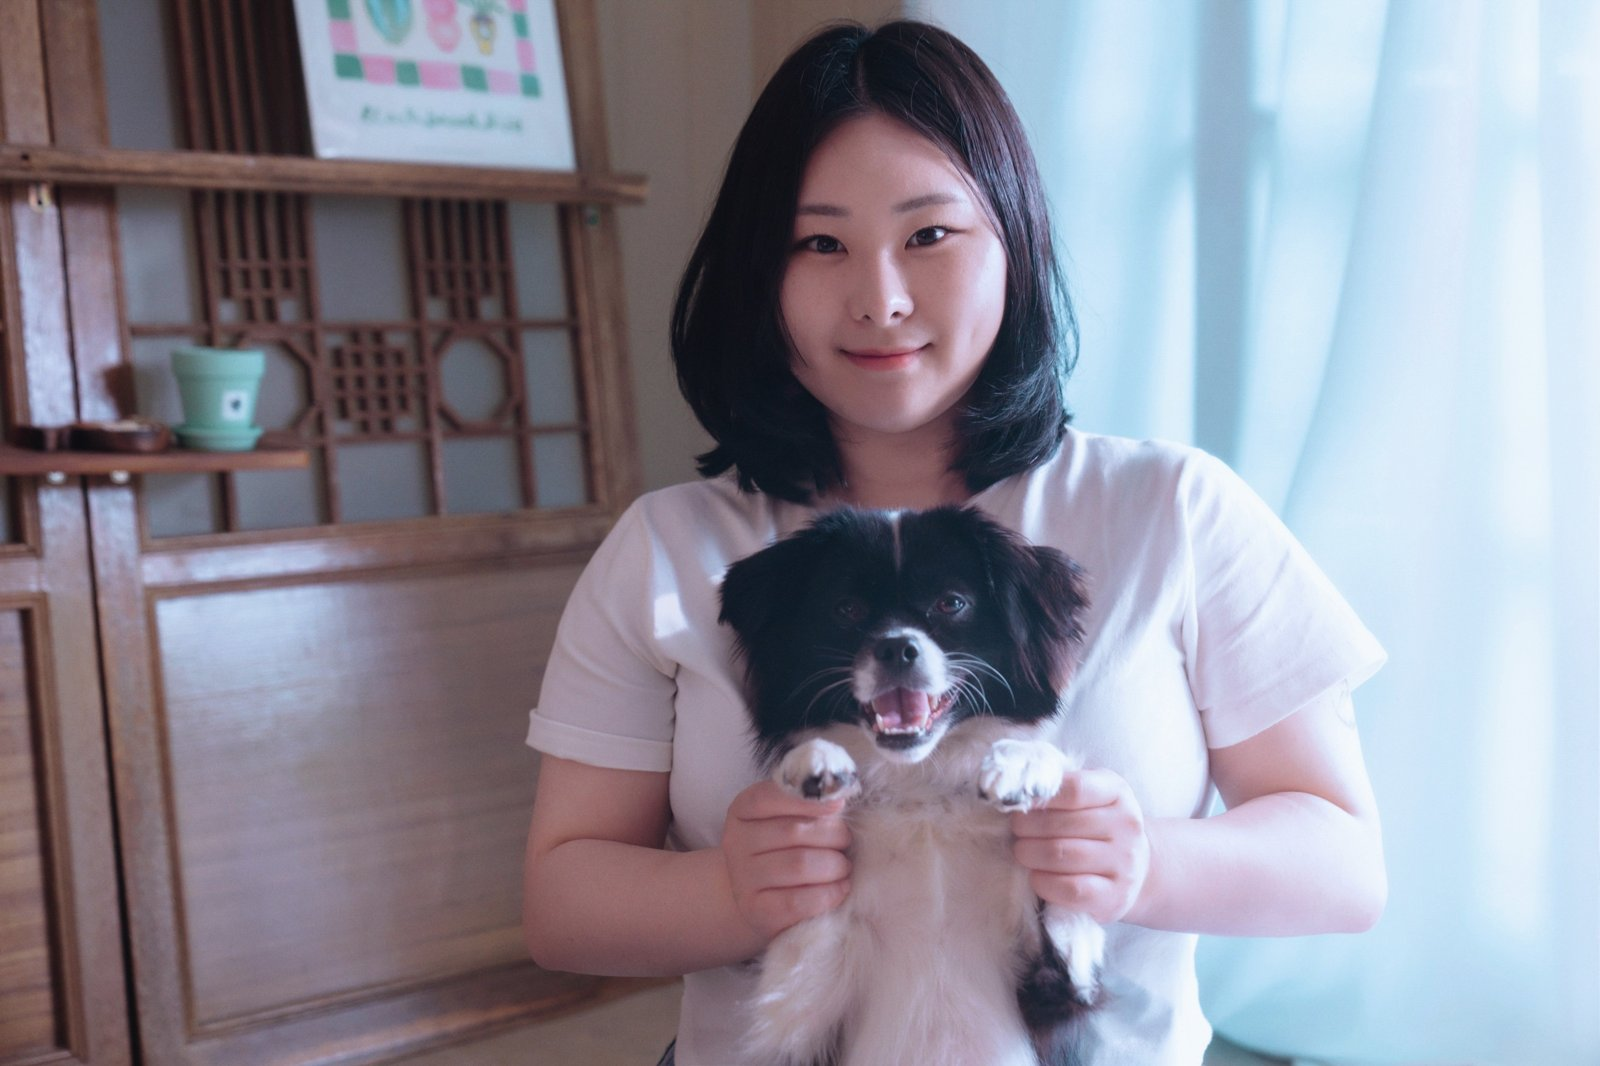
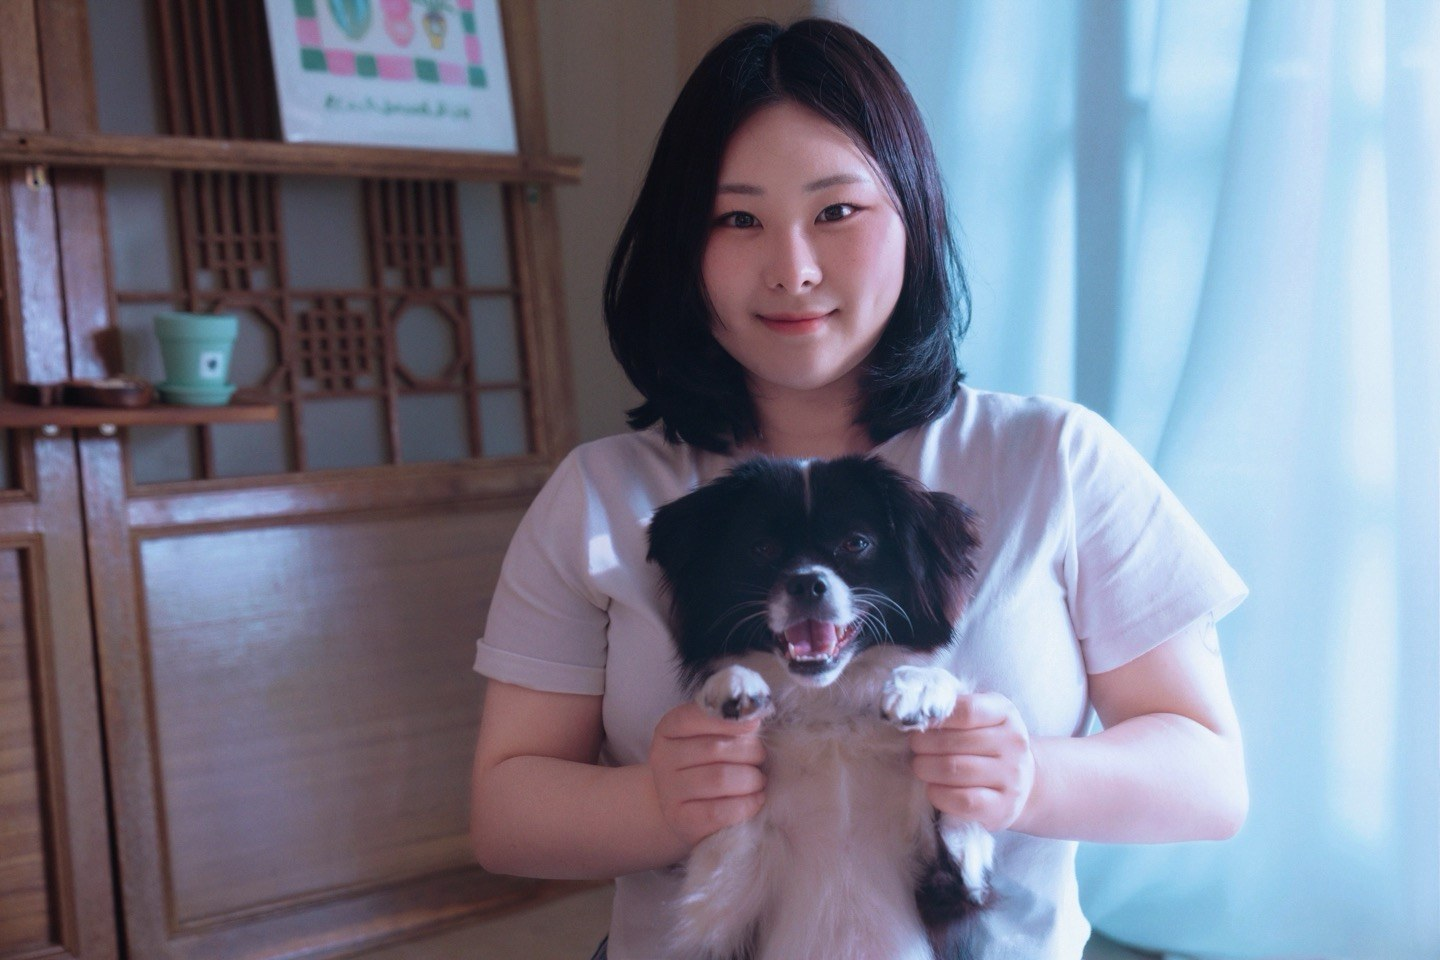
연락 사진 보정본으로 교체
Claude-Session: https://claude.ai/code/session_01F7tKYgLVpzjPdrtESAum4i

diff --git a/index.html b/index.html
@@ -86,7 +86,7 @@
   <div class="list"><a class="row" href="activities/cucg.html"><span class="y">2022 – 현재</span><span class="t">CUCG Lab 학부연구생</span><span class="r">AI 그래픽스 · XR · 시뮬레이션</span><img src="images/cucg.jpg" alt="CUCG Lab 학부연구생" loading="lazy"></a><a class="row" href="activities/siggraph-2024.html"><span class="y">2024</span><span class="t">SIGGRAPH Asia 2024 도쿄 · 학생 봉사자</span><span class="r">전시 · 등록 · 체험 부스</span><img src="images/siggraph-2024.jpg" alt="SIGGRAPH Asia 2024 도쿄 · 학생 봉사자" loading="lazy"></a><a class="row" href="activities/siggraph-2022.html"><span class="y">2022</span><span class="t">SIGGRAPH Asia 2022 대구 · 학생 봉사자</span><span class="r">학회 운영 · 참가자 지원</span><img src="images/siggraph-2022.jpg" alt="SIGGRAPH Asia 2022 대구 · 학생 봉사자" loading="lazy"></a><a class="row" href="projects/sangun.html"><span class="y">2024</span><span class="t">게임 개발 팀 LUL(Level Up Labs) 창립</span><span class="r">창립 · 팀 리드</span><img src="images/sangun.jpg" alt="게임 개발 팀 LUL(Level Up Labs) 창립" loading="lazy"></a><a class="row" href="activities/raons.html"><span class="y">2021 – 2023</span><span class="t">라온S 회장 · 학과 공식 소모임</span><span class="r">회장 · 지원사업 기획</span><img src="images/raons.jpg" alt="라온S 회장 · 학과 공식 소모임" loading="lazy"></a><a class="row" href="activities/aristotellers.html"><span class="y">2021</span><span class="t">아리랑스쿨 기자단 ‘아리스토텔러스’ 7기</span><span class="r">전통문화 기자단</span><div class="ph" role="img" aria-label="아리랑스쿨 기자단 ‘아리스토텔러스’ 7기"><span>아리랑스쿨 기자단 ‘아리스토텔러스’ 7기</span></div><!-- 사진: images/aristotellers.jpg --></a><a class="row" href="activities/annyeong-korea.html"><span class="y">2021</span><span class="t">안녕 코리아 · 한국문화 서포터즈</span><span class="r">외국인 대상 한국문화 수업</span><img src="images/annyeong-korea.jpg" alt="안녕 코리아 · 한국문화 서포터즈" loading="lazy"></a><a class="row" href="activities/statist.html"><span class="y">2021 – 2022</span><span class="t">스타티스트(STARTIST) · 창업대학 기관동아리</span><span class="r">창업 · 홍보 영상</span><img src="images/statist.jpg" alt="스타티스트(STARTIST) · 창업대학 기관동아리" loading="lazy"></a><a class="row" href="activities/nvidia-dli.html"><span class="y">2022</span><span class="t">NVIDIA 딥러닝 교육 이수</span><span class="r">교육</span><div class="ph" role="img" aria-label="NVIDIA 딥러닝 교육 이수"><span>NVIDIA 딥러닝 교육 이수</span></div><!-- 사진: images/nvidia-dli.jpg --></a><a class="row" href="activities/gdgoc.html"><span class="y">2025 – 2026</span><span class="t">GDGoC · 팀 리더 (반죽뭉치 · DevRel)</span><span class="r">팀 리더 2회</span><img src="images/gdgoc.jpg" alt="GDGoC · 팀 리더 (반죽뭉치 · DevRel)" loading="lazy"></a></div></section>
 <section class="sec" id="studies"><div class="sh"><span class="n">04</span><h2>배움</h2><p>공학 밖에서 배운 것들</p><a class="more" href="studies.html">전체 보기 →</a></div>
   <div class="studies"><a href="study/color.html"><span class="en">Color Science</span><h3>색채학</h3><p>색의 기본 성질부터 색 체계, 퍼스널 컬러, 트렌드 컬러 기획까지.</p></a><a href="study/fashion.html"><span class="en">Fashion Illustration</span><h3>패션 일러스트레이션</h3><p>인체의 비례와 구조, 옷이 몸 위에 걸리는 모습을 그리는 법.</p></a><a href="study/cad.html"><span class="en">CAD</span><h3>CAD 공간 설계</h3><p>명동 애플스토어를 분석해 도면과 프레젠테이션 보드를 만들었습니다.</p></a><a href="study/drafting.html"><span class="en">Drafting &amp; Spatial Studies</span><h3>제도와 공간 연구</h3><p>가상 공간을 만들기 위해 시작한 제도 공부.</p></a><a href="study/storyboard.html"><span class="en">Storyboard &amp; Animatics</span><h3>스토리보드와 애니매틱스</h3><p>영상 제작의 프리프로덕션: 기획, 스토리보드, 애니매틱스.</p></a><a href="study/artwork.html"><span class="en">Art Work</span><h3>그림</h3><p>손으로 직접 그린 그림 작업.</p></a><a href="study/maya.html"><span class="en">Maya &amp; Houdini</span><h3>Maya 및 Houdini</h3><p>모델링, 셰이딩, 스크립팅, 이펙트, 렌더링 파이프라인.</p></a></div></section>
-<section class="sec" id="contact"><div class="sh"><span class="n">05</span><h2>연락</h2></div><div class="contact-wrap"><div><div class="contact"><a href="mailto:juranisworking@gmail.com"><small>이메일</small>juranisworking@gmail.com</a><a href="https://github.com/wri0raan" rel="noopener"><small>GitHub</small>@wri0raan</a></div></div><figure class="contact-ph"><img src="images/contact.jpg?v=534e49c6" alt="김주란와 반려견 레오" loading="lazy"></figure><p class="contact-note">연구·협업·인턴 제안 모두 환영합니다.</p></div></section>
+<section class="sec" id="contact"><div class="sh"><span class="n">05</span><h2>연락</h2></div><div class="contact-wrap"><div><div class="contact"><a href="mailto:juranisworking@gmail.com"><small>이메일</small>juranisworking@gmail.com</a><a href="https://github.com/wri0raan" rel="noopener"><small>GitHub</small>@wri0raan</a></div></div><figure class="contact-ph"><img src="images/contact.jpg?v=075aa65a" alt="김주란와 반려견 레오" loading="lazy"></figure><p class="contact-note">연구·협업·인턴 제안 모두 환영합니다.</p></div></section>
 </main>
 <footer><div class="wrap"><span>© 2026 김주란 Juran Kim</span><a href="https://github.com/wri0raan">github.com/wri0raan</a></div></footer>
 <script src="assets/site.js?v=d9bb9034"></script>

diff --git a/about.html b/about.html
@@ -30,7 +30,7 @@
 <section class="sec"><div class="sh"><h2>수상</h2></div><div class="tl"><span class="y">2025</span><div><b>학술연구우수 장학금 — 미디어기술콘텐츠학과</b></div><span class="y">2021 · 2025</span><div><b>성적우수 장학금</b></div><span class="y">2024</span><div><b>융합인재 장학금</b></div><span class="y">2022</span><div><b>가대사랑 장학금 — 진로 비전 자기소개서 심사로 선발</b></div><span class="y">2022</span><div><b>자기주도경력개발 장학금</b></div><span class="y">2024</span><div><b>HCI Korea 창의상 우수상 — XR 테이크아웃 카페 (제1저자)</b></div><span class="y">2022</span><div><b>KCGS 우수발표상 — 자력 제어를 이용한 관절 운동 구현</b></div><span class="y">2022 · 2024</span><div><b>SIGGRAPH Asia 학생 봉사자 선발</b></div><span class="y">2017</span><div><b>대한지질학회 발표 수상 (중학생 때)</b></div></div></section>
 <section class="sec"><div class="sh"><h2>기술</h2></div><div class="tl"><span class="y">언어</span><div><b>C++ · C# · Python</b></div><span class="y">그래픽스·엔진</span><div><b>OpenGL · Unity · Unreal · SDL2 · Maya · Houdini(기초)</b></div><span class="y">비전·AI</span><div><b>PyTorch · PyTorch3D · MediaPipe · Gymnasium(DQN)</b></div><span class="y">XR</span><div><b>XR 콘텐츠 개발</b></div></div></section>
 <section class="sec"><div class="sh"><h2>공학 밖에서 배운 것</h2><a class="more" href="studies.html">전체 보기 →</a></div><div class="studies"><a href="study/color.html"><span class="en">Color Science</span><h3>색채학</h3><p>색의 기본 성질부터 색 체계, 퍼스널 컬러, 트렌드 컬러 기획까지.</p></a><a href="study/fashion.html"><span class="en">Fashion Illustration</span><h3>패션 일러스트레이션</h3><p>인체의 비례와 구조, 옷이 몸 위에 걸리는 모습을 그리는 법.</p></a><a href="study/cad.html"><span class="en">CAD</span><h3>CAD 공간 설계</h3><p>명동 애플스토어를 분석해 도면과 프레젠테이션 보드를 만들었습니다.</p></a><a href="study/drafting.html"><span class="en">Drafting &amp; Spatial Studies</span><h3>제도와 공간 연구</h3><p>가상 공간을 만들기 위해 시작한 제도 공부.</p></a><a href="study/storyboard.html"><span class="en">Storyboard &amp; Animatics</span><h3>스토리보드와 애니매틱스</h3><p>영상 제작의 프리프로덕션: 기획, 스토리보드, 애니매틱스.</p></a><a href="study/artwork.html"><span class="en">Art Work</span><h3>그림</h3><p>손으로 직접 그린 그림 작업.</p></a><a href="study/maya.html"><span class="en">Maya &amp; Houdini</span><h3>Maya 및 Houdini</h3><p>모델링, 셰이딩, 스크립팅, 이펙트, 렌더링 파이프라인.</p></a></div></section>
-<section class="sec"><div class="sh"><h2>연락</h2></div><div class="contact-wrap"><div><div class="contact"><a href="mailto:juranisworking@gmail.com"><small>이메일</small>juranisworking@gmail.com</a><a href="https://github.com/wri0raan" rel="noopener"><small>GitHub</small>@wri0raan</a></div></div><figure class="contact-ph"><img src="images/contact.jpg?v=534e49c6" alt="김주란와 반려견 레오" loading="lazy"></figure><p class="contact-note">연구·협업·인턴 제안 모두 환영합니다.</p></div></section>
+<section class="sec"><div class="sh"><h2>연락</h2></div><div class="contact-wrap"><div><div class="contact"><a href="mailto:juranisworking@gmail.com"><small>이메일</small>juranisworking@gmail.com</a><a href="https://github.com/wri0raan" rel="noopener"><small>GitHub</small>@wri0raan</a></div></div><figure class="contact-ph"><img src="images/contact.jpg?v=075aa65a" alt="김주란와 반려견 레오" loading="lazy"></figure><p class="contact-note">연구·협업·인턴 제안 모두 환영합니다.</p></div></section>
 </main>
 <footer><div class="wrap"><span>© 2026 김주란 Juran Kim</span><a href="https://github.com/wri0raan">github.com/wri0raan</a></div></footer>
 <script src="assets/site.js?v=d9bb9034"></script>
